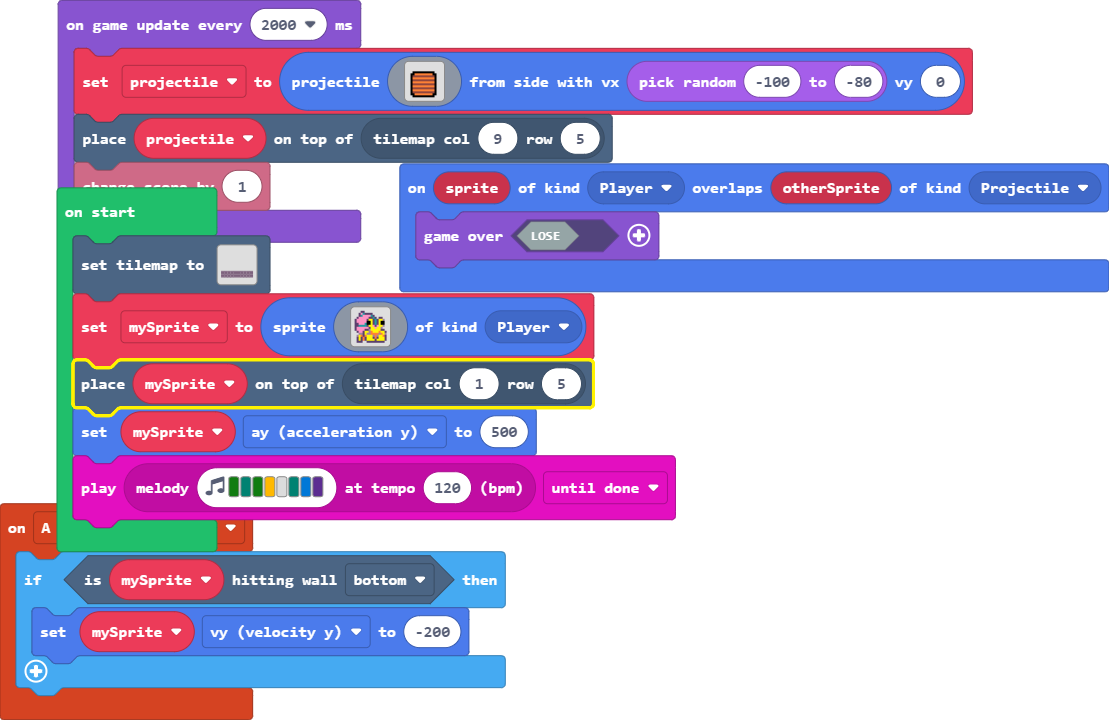
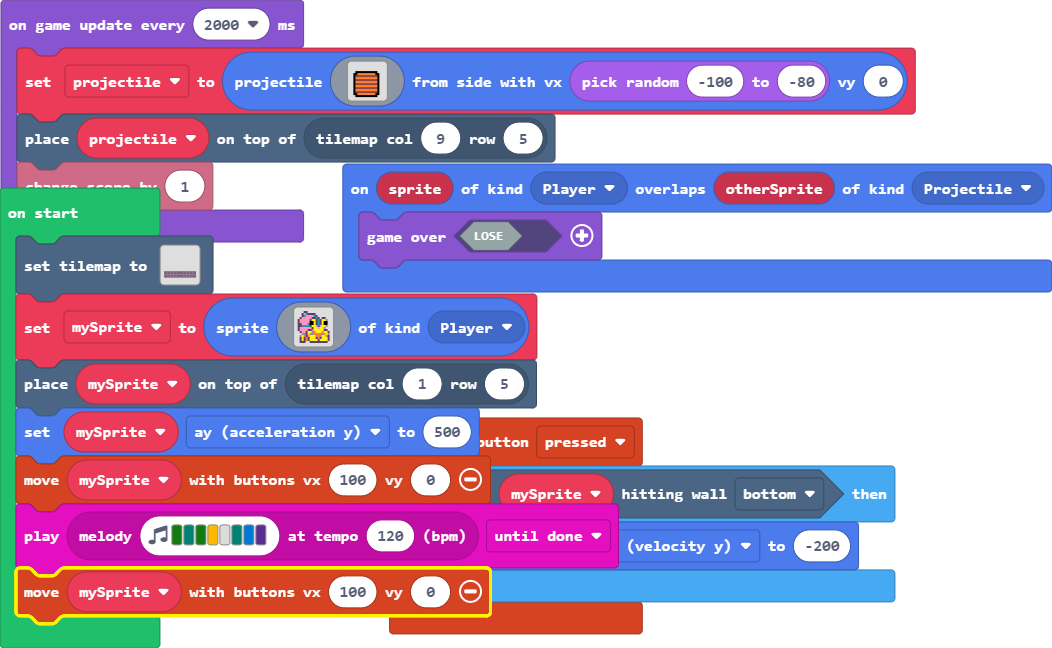
added moving

diff --git a/tilemap.g.ts b/tilemap.g.ts
@@ -87,6 +87,25 @@ namespace myTiles {
 . . . . . . . . . . . . . . . . 
 . . . . . . . . . . . . . . . . 
 `, [myTiles.transparency16], TileScale.Sixteen);
+            case "level7":
+            case "level7":return tiles.createTilemap(hex`1000100000000000000000000000000000000000000000000000000000000000000000000000000000000000000000000000000000000000000000000000000000000000000000000000000000000000000000000000000000000000000000000000000000000000000000000000000000000000000000000000000000000000000000000000000000000000000000000000000000000000000000000000000000000000000000000000000000000000000000000000000000000000000000000000000000000000000000000000000000000000000000000000000000000000000000000000000000000000000000000000000000000000000000000000000000000000`, img`
+. . . . . . . . . . . . . . . . 
+. . . . . . . . . . . . . . . . 
+. . . . . . . . . . . . . . . . 
+. . . . . . . . . . . . . . . . 
+. . . . . . . . . . . . . . . . 
+. . . . . . . . . . . . . . . . 
+. . . . . . . . . . . . . . . . 
+. . . . . . . . . . . . . . . . 
+. . . . . . . . . . . . . . . . 
+. . . . . . . . . . . . . . . . 
+. . . . . . . . . . . . . . . . 
+. . . . . . . . . . . . . . . . 
+. . . . . . . . . . . . . . . . 
+. . . . . . . . . . . . . . . . 
+. . . . . . . . . . . . . . . . 
+. . . . . . . . . . . . . . . . 
+`, [myTiles.transparency16], TileScale.Sixteen);
         }
         return null;
     })

diff --git a/main.ts b/main.ts
@@ -12,7 +12,9 @@ tiles.setTilemap(tilemap`level2`)
 mySprite = sprites.create(assets.image`lemoncrab`, SpriteKind.Player)
 tiles.placeOnTile(mySprite, tiles.getTileLocation(1, 5))
 mySprite.ay = 500
+controller.moveSprite(mySprite, 100, 0)
 music.play(music.stringPlayable("G F G A - F E D ", 120), music.PlaybackMode.UntilDone)
+controller.moveSprite(mySprite, 100, 0)
 game.onUpdateInterval(2000, function () {
     projectile = sprites.createProjectileFromSide(assets.image`barrel`, randint(-100, -80), 0)
     tiles.placeOnTile(projectile, tiles.getTileLocation(9, 5))
